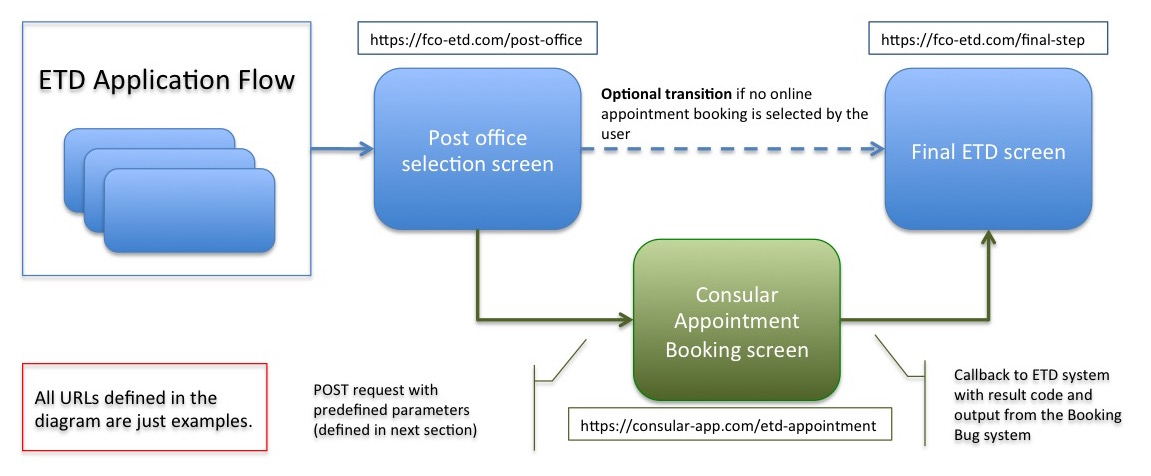
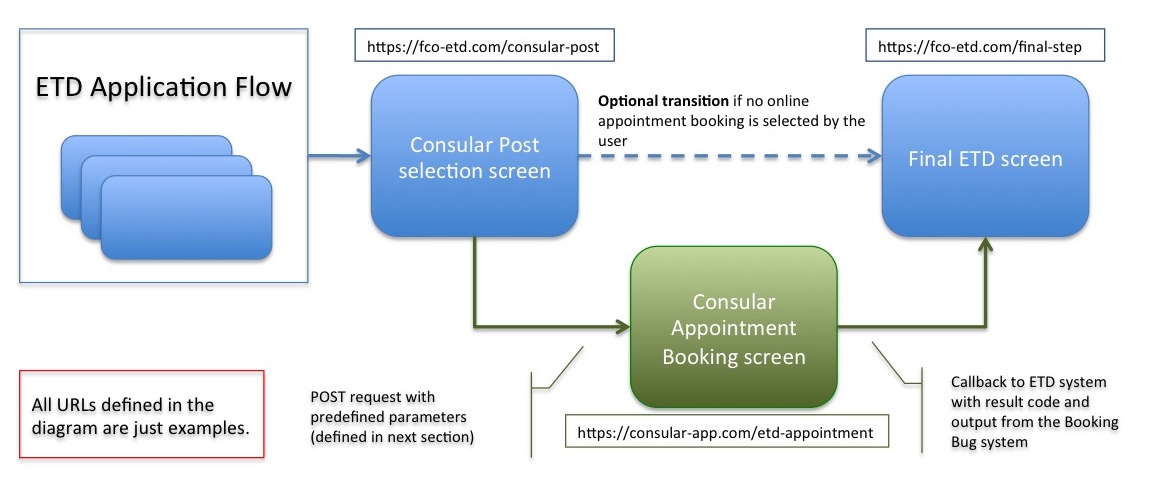
applied feedback from Phil B.

diff --git a/bookingbug-etd-integration-specification.md b/bookingbug-etd-integration-specification.md
@@ -56,11 +56,13 @@ The main work here is to define both the **input fields** to be sent to BookingB
 |-------------|-------------|-------------|-------------|-------------|
 |etdToken|ETD session token id (needed for the callback)|Alphanumeric/Text (hash)|Required|64 characters|
 |callbackURL|ETD URL to be called after the user clicks on "Next" in BookingBug appointment screen|Text|Required|256 characters|
-|postOffice|Post office selected by the user|**<span style="color:red">TBD</span>**|Required|**<span style="color:red">TBD</span>**|
+|companyID|Consular Post selected by the user|Numeric|Required|**<span style="color:red">TBD</span>**|
 |firstName|ETD applicant's first name|Text|Required|**<span style="color:red">TBD</span>**|
 |lastName|ETD applicant's last name|Text|Required|**<span style="color:red">TBD</span>**|
 |email|ETD applicant's email address|Text (xxx@yyy)|Required|**<span style="color:red">TBD</span>**|
 |contactPhoneNumber|ETD applicant's contact phone number|Text (may contain letters and symbols)|Required|**<span style="color:red">TBD</span>**|
+|etdReason|Applicant's reason to apply for an ETD|Range of predefined values ['Lost','Stolen']|Required|Predefined values|
+|feedbackOptIn|Opt-in checkbox for the user to indicate whether they permit the FCO to contact them for feedback|Boolean|Required ('Y', 'N')|1 character|
 
 ##### Description of request parameters (POST method) to ETD application (callback's parameters):
 
